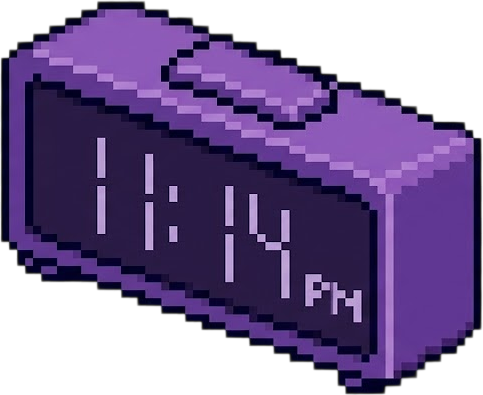
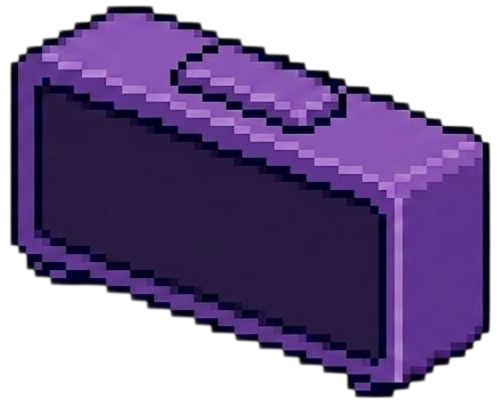
Fix Cloud Climber camera fall behavior, cat proportions, swap in new art, fix dead-space bug in mini-game panel centering

diff --git a/components/DinoGame.tsx b/components/DinoGame.tsx
@@ -612,11 +612,11 @@ export default function DinoGame({ onComplete }: DinoGameProps) {
       drawBlock(catX + width * 0.8, catY + height * 0.1, width * 0.1, height * 0.15, FUR, OUTLINE);
 
       // Legs (hovering blocks)
-      drawBlock(catX + width * 0.3, catY + height * 0.85, width * 0.12, height * 0.2, FUR, OUTLINE);
-      drawBlock(catX + width * 0.55, catY + height * 0.85, width * 0.12, height * 0.2, FUR, OUTLINE);
-      // Animated dangling paws
-      drawBlock(catX + width * 0.3 - legOffset, catY + height * 1.05, width * 0.08, height * 0.1, FUR_SHADOW, OUTLINE);
-      drawBlock(catX + width * 0.6 + legOffset, catY + height * 1.05, width * 0.08, height * 0.1, FUR_SHADOW, OUTLINE);
+      drawBlock(catX + width * 0.3, catY + height * 0.88, width * 0.12, height * 0.12, FUR, OUTLINE);
+      drawBlock(catX + width * 0.55, catY + height * 0.88, width * 0.12, height * 0.12, FUR, OUTLINE);
+      // Animated dangling paws — tightened up from height*1.05 to sit closer to the legs
+      drawBlock(catX + width * 0.3 - legOffset, catY + height * 0.98, width * 0.08, height * 0.08, FUR_SHADOW, OUTLINE);
+      drawBlock(catX + width * 0.6 + legOffset, catY + height * 0.98, width * 0.08, height * 0.08, FUR_SHADOW, OUTLINE);
 
       // Eye
       drawBlock(catX + width * 0.75, catY + height * 0.35, width * 0.08, height * 0.08, '#1e1224', OUTLINE);
@@ -709,7 +709,7 @@ export default function DinoGame({ onComplete }: DinoGameProps) {
             obstaclesRef.current.push({
               x: CANVAS_WIDTH,
               y: GROUND_Y - height - 20,
-              width: 24,
+              width: 44,
               height,
               isFlying: true,
             });

diff --git a/lib/roomData.ts b/lib/roomData.ts
@@ -388,26 +388,28 @@ export const roomObjects: RoomObject[] = [
     assetName: 'Cloud Climber Game',
     type: 'Click / Mini-game',
     initialState: {},
+    imageSrc: '/assets/cloud-climb-icon.png',
     dialogue: {
       free: [{ speaker: 'Snippy', text: "Ooh, a little climbing game! Roli hasn't picked out art for this one yet, but it's fun to play already." }],
       paid: 'N/A',
     },
     actionTarget: 'Launches falling-blocks climbing mini-game overlay',
     visualFeedback: 'Yellow highlight on hover',
-    position: { x: 56.5, y: 83, width: 6, height: 8 },
+    position: { x: 56.5, y: 84.19, width: 6, height: 5.62 },
   },
   {
     id: 'OBJ_22',
     assetName: 'Bookshelf',
     type: 'Click / Image Modal',
     initialState: {},
+    imageSrc: '/assets/bookshelf-icon.png',
     dialogue: {
       free: [{ speaker: 'Snippy', text: "These are some of Roli's favorite books! Take a look, and if you'd like, add your own favorite to the shelf." }],
       paid: 'N/A',
     },
     actionTarget: 'Opens favorite-books shelf overlay',
     visualFeedback: 'Yellow highlight on hover',
-    position: { x: 75, y: 9, width: 8, height: 9 },
+    position: { x: 75, y: 10.94, width: 8, height: 5.13 },
   },
   {
     id: 'OBJ_23',

diff --git a/components/CloudClimberGame.tsx b/components/CloudClimberGame.tsx
@@ -545,8 +545,19 @@ export default function CloudClimberGame() {
       let gameOverThisFrame = false;
 
       // Update camera (deadzone: keep character in lower half, only scroll up)
-      const desiredCameraY = charYRef.current - (CANVAS_HEIGHT - CAMERA_THRESHOLD_SCREEN_Y);
-      cameraYRef.current = Math.max(cameraYRef.current, desiredCameraY, 0);
+      const desiredCameraYUp = charYRef.current - (CANVAS_HEIGHT - CAMERA_THRESHOLD_SCREEN_Y);
+      let nextCameraY = Math.max(cameraYRef.current, desiredCameraYUp, 0);
+
+      // If the character has fallen far enough to go below the visible bottom, drop the camera
+      // to keep them visible there. This becomes the new floor for future rises — no need to
+      // re-climb back to the old peak height first.
+      const BOTTOM_MARGIN = 40;
+      const maxCameraYToKeepVisible = charYRef.current - BOTTOM_MARGIN;
+      if (nextCameraY > maxCameraYToKeepVisible) {
+        nextCameraY = Math.max(0, maxCameraYToKeepVisible);
+      }
+
+      cameraYRef.current = nextCameraY;
 
       // Update lava
       lavaYRef.current += LAVA_RISE_SPEED;

diff --git a/components/ItemInteractionStage.tsx b/components/ItemInteractionStage.tsx
@@ -168,7 +168,7 @@ export default function ItemInteractionStage({
         initial={{ opacity: 0, y: 12, scale: 0.96 }}
         animate={{ opacity: 1, y: 0, scale: 1 }}
         transition={{ duration: 0.35, ease: 'easeOut' }}
-        className="w-full"
+        className="flex w-full justify-center"
       >
         {renderContent()}
       </motion.div>
